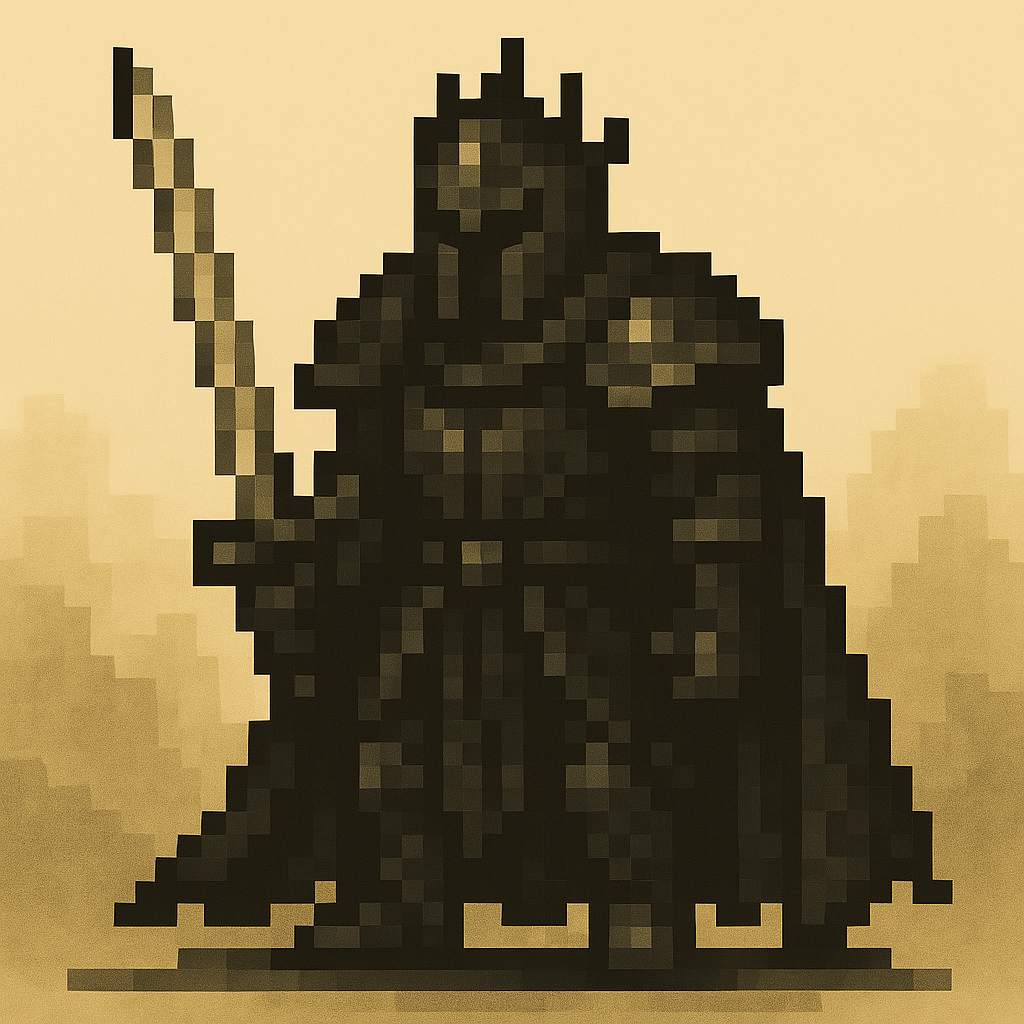
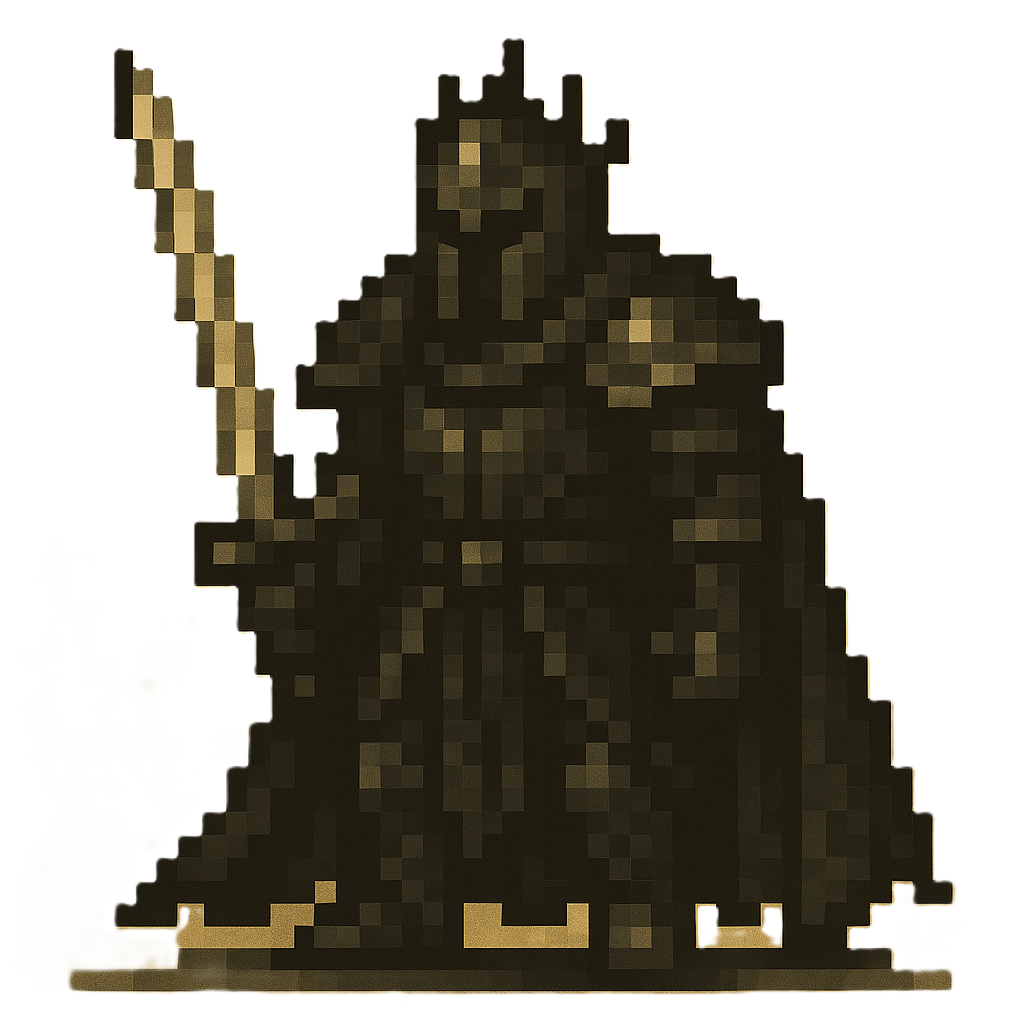
93 UI teste

diff --git a/style.css b/style.css
@@ -114,11 +114,12 @@ div#tab-loja {
       flex-direction: column;
       align-items: center;
       background-color: #1f1f1f;
-      max-width: 90%;
-      padding: 50px 1rem;
+      width: 90%;
+      padding: 0px 1rem;
       border: solid 1px #343434;
       border-radius: 10px;
       margin-bottom: 1rem;
+      padding-bottom: 3rem;
   }
 }
 
@@ -284,7 +285,7 @@ div#calendario-home {
   min-height: 0;
   flex: 1 1 auto;
   overflow-y: auto;
-  padding-top: 5vw;
+  padding: 5vw 0;
 }
 
 .bottom-nav {
@@ -2471,6 +2472,7 @@ div#ios-notif-info {
   border-radius: 6px;
   font-weight: 500;
   cursor: pointer;
+  margin-top: 0px;
 }
 
 #friend-request-container button:hover {
@@ -2580,6 +2582,20 @@ body > div.main-content > div.top-info-character > div{
   font-size: clamp(0.1rem, 6vw, 28px);
 }
 
+.status-id-container {
+  display: flex;
+  align-items: center;
+  justify-content: center;
+  width: 90% !important;
+  padding: 1rem !important;
+  background-color: #3b3b3b !important;
+  border-radius: 10px;
+  border: 1px solid #343434 !important;
+  font-size: medium !important;
+  gap: 10px;
+  margin: 10px !important;
+}
+
 #status-id-modal {
   background-color: transparent;
   box-shadow: none;
@@ -2671,6 +2687,7 @@ body > div.main-content > div.top-info-character > div > div.character-info > di
     width: 100%;
     display: flex;
     justify-content: space-between;
+    font-size: clamp(0.1rem, 3.8vw, 17px);
 }
 
 .missoes-diarias-bloco {
@@ -2825,17 +2842,17 @@ body > div.main-content > div.top-info-character > div > div.character-info > di
 }
 
 #itens-ativos-container-modal > div {
-  flex: 1 1 120px;      /* cresce igualmente, mínimo 120px */
-  min-width: 12%;
-  display: flex;
-  flex-direction: column;
-  height: auto;
-  padding: 10px 2px;
-  box-sizing: border-box;
+    flex: 1 1 120px;
+    min-width: 13vw;
+    display: flex;
+    flex-direction: column;
+    height: 27vw;
+    padding: 5px 5px;
+    box-sizing: border-box;
 }
 
 #itens-ativos-container-modal > div span{
-  font-size: clamp(0.1rem, 1.4vw, 28px);
+  font-size: clamp(0.1rem, 2.3vw, 28px);
   display: block;
 }
 
@@ -2857,7 +2874,118 @@ body > div.main-content > div.top-info-character > div > div.character-info > di
 div#tab-enemy {
     min-height: 100%;
     padding-top: 0px;
-    justify-content: center;
+    justify-content: flex-end;
     align-items: center;
     padding-bottom: 0px;
+}
+
+#inimigo-img {
+  width: 80vw;
+  height: 80vw;
+  display: block;
+  position: relative;
+  z-index: 1;
+}
+#inimigo-img img {
+  width: 100%;
+  height: 100%;
+  object-fit: contain;
+  display: block;
+  position: relative;
+  z-index: 2;
+  pointer-events: auto;
+}
+
+#inimigo-img .inimigo-sombra {
+    position: absolute;
+    left: -49px;
+    bottom: -59%;
+    width: 100%;
+    height: 100%;
+    z-index: 0;
+    filter: blur(9px) brightness(0.22) grayscale(1) opacity(0.8);
+    transform: scaleY(-0.38) scaleX(1.18) skewX(13deg);
+    pointer-events: none;
+    mask-image: linear-gradient(to bottom, transparent 10%, black 90%);
+    -webkit-mask-image: linear-gradient(to bottom, transparent 10%, black 90%);
+}
+
+#inimigo-img img:not(.inimigo-sombra) {
+  position: relative;
+  z-index: 2;
+}
+
+.enemy-actions {
+    display: flex;
+    z-index: 1;
+    flex-direction: row;
+    align-items: stretch;
+    gap: 12px;
+    background-color: #1f1f1f;
+    color: white;
+    padding: 1rem;
+    border-radius: 10px;
+    border: 1px solid #343434;
+    box-shadow: 0 2px 5px rgba(0, 0, 0, 0.3);
+    align-content: stretch;
+    flex-wrap: nowrap;
+    width: 90%;
+    justify-content: space-evenly;
+}
+
+.enemy-actions button:first-child {
+    flex: 2 1 0;
+    min-width: 0;
+    margin: 0;
+}
+
+.enemy-actions button:last-child {
+    flex: 8 1 0;
+    min-width: 0;
+    margin: 0;
+}
+
+div#simpleid-container {
+    display: flex;
+    gap: 10px;
+    max-width: 400px;
+    margin: 20px 0;
+    align-items: center;
+}
+
+button#btn-salvar-id{
+    padding: 12px 30px;
+    background-color: #22c55e;
+    color: white;
+    border: none;
+    border-radius: 6px;
+    font-weight: 500;
+    cursor: pointer;
+    margin-top: 0px;
+}
+
+button#logout-button {
+    max-width: 186px;
+    width: 85%;
+}
+
+#simpleid-container,
+#friend-request-container {
+  display: flex;
+  flex-direction: column;
+  align-items: center;
+  gap: 8px;
+}
+
+#simpleid-container button,
+#friend-request-container button {
+  width: 180px; /* ou ajuste conforme desejar */
+  text-align: center;
+  margin: 0 auto;
+  display: block;
+}
+
+body.tab-home-active .top-info-character,
+body.tab-settings-active .top-info-character {
+  display: none !important;
 }

diff --git a/script.js b/script.js
@@ -241,7 +241,17 @@ async function atualizarUIInimigo() {
   if (!usuario) return;
   const inimigo = await carregarInimigoFirestore(usuario.uid);
 
-  document.getElementById('inimigo-img').src = inimigo.imagem;
+  // Corrigido: troca as imagens dentro da div
+  const inimigoImgDiv = document.getElementById('inimigo-img');
+  if (inimigoImgDiv) {
+    // Sombra (primeira imagem)
+    const sombraImg = inimigoImgDiv.querySelector('.inimigo-sombra');
+    if (sombraImg) sombraImg.src = inimigo.imagem;
+    // Imagem principal (segunda imagem)
+    const mainImg = Array.from(inimigoImgDiv.querySelectorAll('img')).find(img => !img.classList.contains('inimigo-sombra'));
+    if (mainImg) mainImg.src = inimigo.imagem;
+  }
+
   document.getElementById('inimigo-nome').textContent = inimigo.nome;
   document.getElementById('inimigo-vida-text').textContent = `${inimigo.vidaAtual} / ${inimigo.vidaMaxima}`;
   const recompensaDiv = document.getElementById('inimigo-recompensa');
@@ -619,7 +629,8 @@ document.addEventListener('DOMContentLoaded', () => {
         'tab-tasks-active',
         'tab-tasks-nao-periodicas-active',
         'tab-tasks-personalizadas-active',
-        'tab-amigos-active'
+        'tab-amigos-active',
+        'tab-settings-active',
       );
 
       if (alvo === 'tab-home') document.body.classList.add('tab-home-active');
@@ -627,6 +638,8 @@ document.addEventListener('DOMContentLoaded', () => {
       if (alvo === 'tab-tasks-nao-periodicas') document.body.classList.add('tab-tasks-nao-periodicas-active');
       if (alvo === 'tab-tasks-personalizadas') document.body.classList.add('tab-tasks-personalizadas-active');
       if (alvo === 'tab-amigos') document.body.classList.add('tab-amigos-active');
+            // ...dentro do eventListener das nav-buttons...
+      if (alvo === 'tab-settings') document.body.classList.add('tab-settings-active');
 
       atualizarVisibilidadeAppBody();
     });
@@ -705,12 +718,27 @@ function handleSwipe() {
       'tab-home-active',
       'tab-tasks-active',
       'tab-tasks-nao-periodicas-active',
-      'tab-tasks-personalizadas-active'
+      'tab-tasks-personalizadas-active',
+      'tab-enemy-active',
+      'tab-settings-active',
     );
     if (nextTabId === 'tab-home') document.body.classList.add('tab-home-active');
     if (nextTabId === 'tab-tasks') document.body.classList.add('tab-tasks-active');
     if (nextTabId === 'tab-tasks-nao-periodicas') document.body.classList.add('tab-tasks-nao-periodicas-active');
     if (nextTabId === 'tab-tasks-personalizadas') document.body.classList.add('tab-tasks-personalizadas-active');
+    if (nextTabId === 'tab-enemy') document.body.classList.add('tab-enemy-active');
+    if (nextTabId === 'tab-settings') document.body.classList.add('tab-settings-active');
+    
+
+    // Adiciona ou remove a classe show em main-content igual aos botões
+    const mainContent = document.querySelector('.main-content');
+    if (mainContent) {
+      if (nextTabId === 'tab-enemy') {
+        mainContent.classList.add('show');
+      } else {
+        mainContent.classList.remove('show');
+      }
+    }
 
     atualizarVisibilidadeAppBody();
   });

diff --git a/index.html b/index.html
@@ -389,12 +389,19 @@
       <!-- Aba Home -->
       <div id="tab-enemy" class="tab-content">
         <div id="inimigo-container" style="display: flex; flex-direction: column; align-items: center; margin: 20px 0;">
-            <img id="inimigo-img" src="img/goblin.png" alt="Inimigo" style="width: 60px; height: 60px; margin-bottom: 8px;">
-            <div id="inimigo-nome" style="font-weight: bold; font-size: 1.2em;">Goblin</div>
-            <div id="inimigo-vida-bar" style="width: 120px; height: 18px; background: #333; border-radius: 9px; margin: 8px 0; overflow: hidden;">
-              <div id="inimigo-vida-fill" style="height: 100%; background: #4caf50; width: 100%; transition: width 0.3s;"></div>
+            <div id="inimigo-img">
+              <img class="inimigo-sombra" src="img/mago_sombrio.png" alt="Sombra do Inimigo">
+              <img src="img/mago_sombrio.png" alt="Inimigo">
+            </div>         
+            <div id="inimigo-nome" style="font-weight: bold; font-size: 1.2em; z-index:1;">Goblin</div>
+            <div id="inimigo-vida-bar" style="width: 200px;height: 8px;z-index:1;background: #333;border: 1px solid;border-radius: 9px;margin: 8px 0;overflow: hidden;">
+              <div id="inimigo-vida-fill" style="height: 100%; z-index:1; background: rgb(124, 51, 51); width: 100%; transition: width 0.3s;"></div>
             </div>
-            <div id="inimigo-vida-text" style="font-size: 0.95em;">100 / 100</div>
+            <div id="inimigo-vida-text" style="font-size: 0.95em; z-index:1;">100 / 100</div>
+        </div>
+        <div class="enemy-actions">
+          <button id="atacar-inimigo" class="action-button">Atacar</button>
+          <button id="especial-inimigo" class="action-button">Especial</button>
         </div>
       </div>
       <div id="tab-home" class="tab-content active">
@@ -528,7 +535,7 @@
 
           <div id="simpleid-container">
             <input type="text" id="meu-id-simples" placeholder="Escolha seu ID público (ex: joao123)">
-            <button onclick="definirMeuID()">Salvar ID</button>
+            <button id="btn-salvar-id" onclick="definirMeuID()">SalvarID</button>
           </div>
           <h3>Adicionar Amigo</h3>
           <div id="friend-request-container">
@@ -611,6 +618,7 @@
       </div>
       <!-- Aba Loja -->
       <div id="tab-loja" class="tab-content">
+      <h2>Loja</h2>
       <div class="LojaSection">
         <h3 class="loja-titulo loja-titulo-cosmeticos">Cosméticos</h3>
         <div class="loja-grid loja-cosmeticos">
@@ -747,7 +755,7 @@
       
 
     <div id="tab-inventario" class="tab-content">
-      <h3 style="text-align:center;">Inventário</h3>
+      <h2 style="text-align:center;">Inventário</h2>
       <div class="inventario-grid" id="inventario-grid">
         <!-- Cards dos itens ativados/comprados aparecem aqui via JS -->
       </div>
